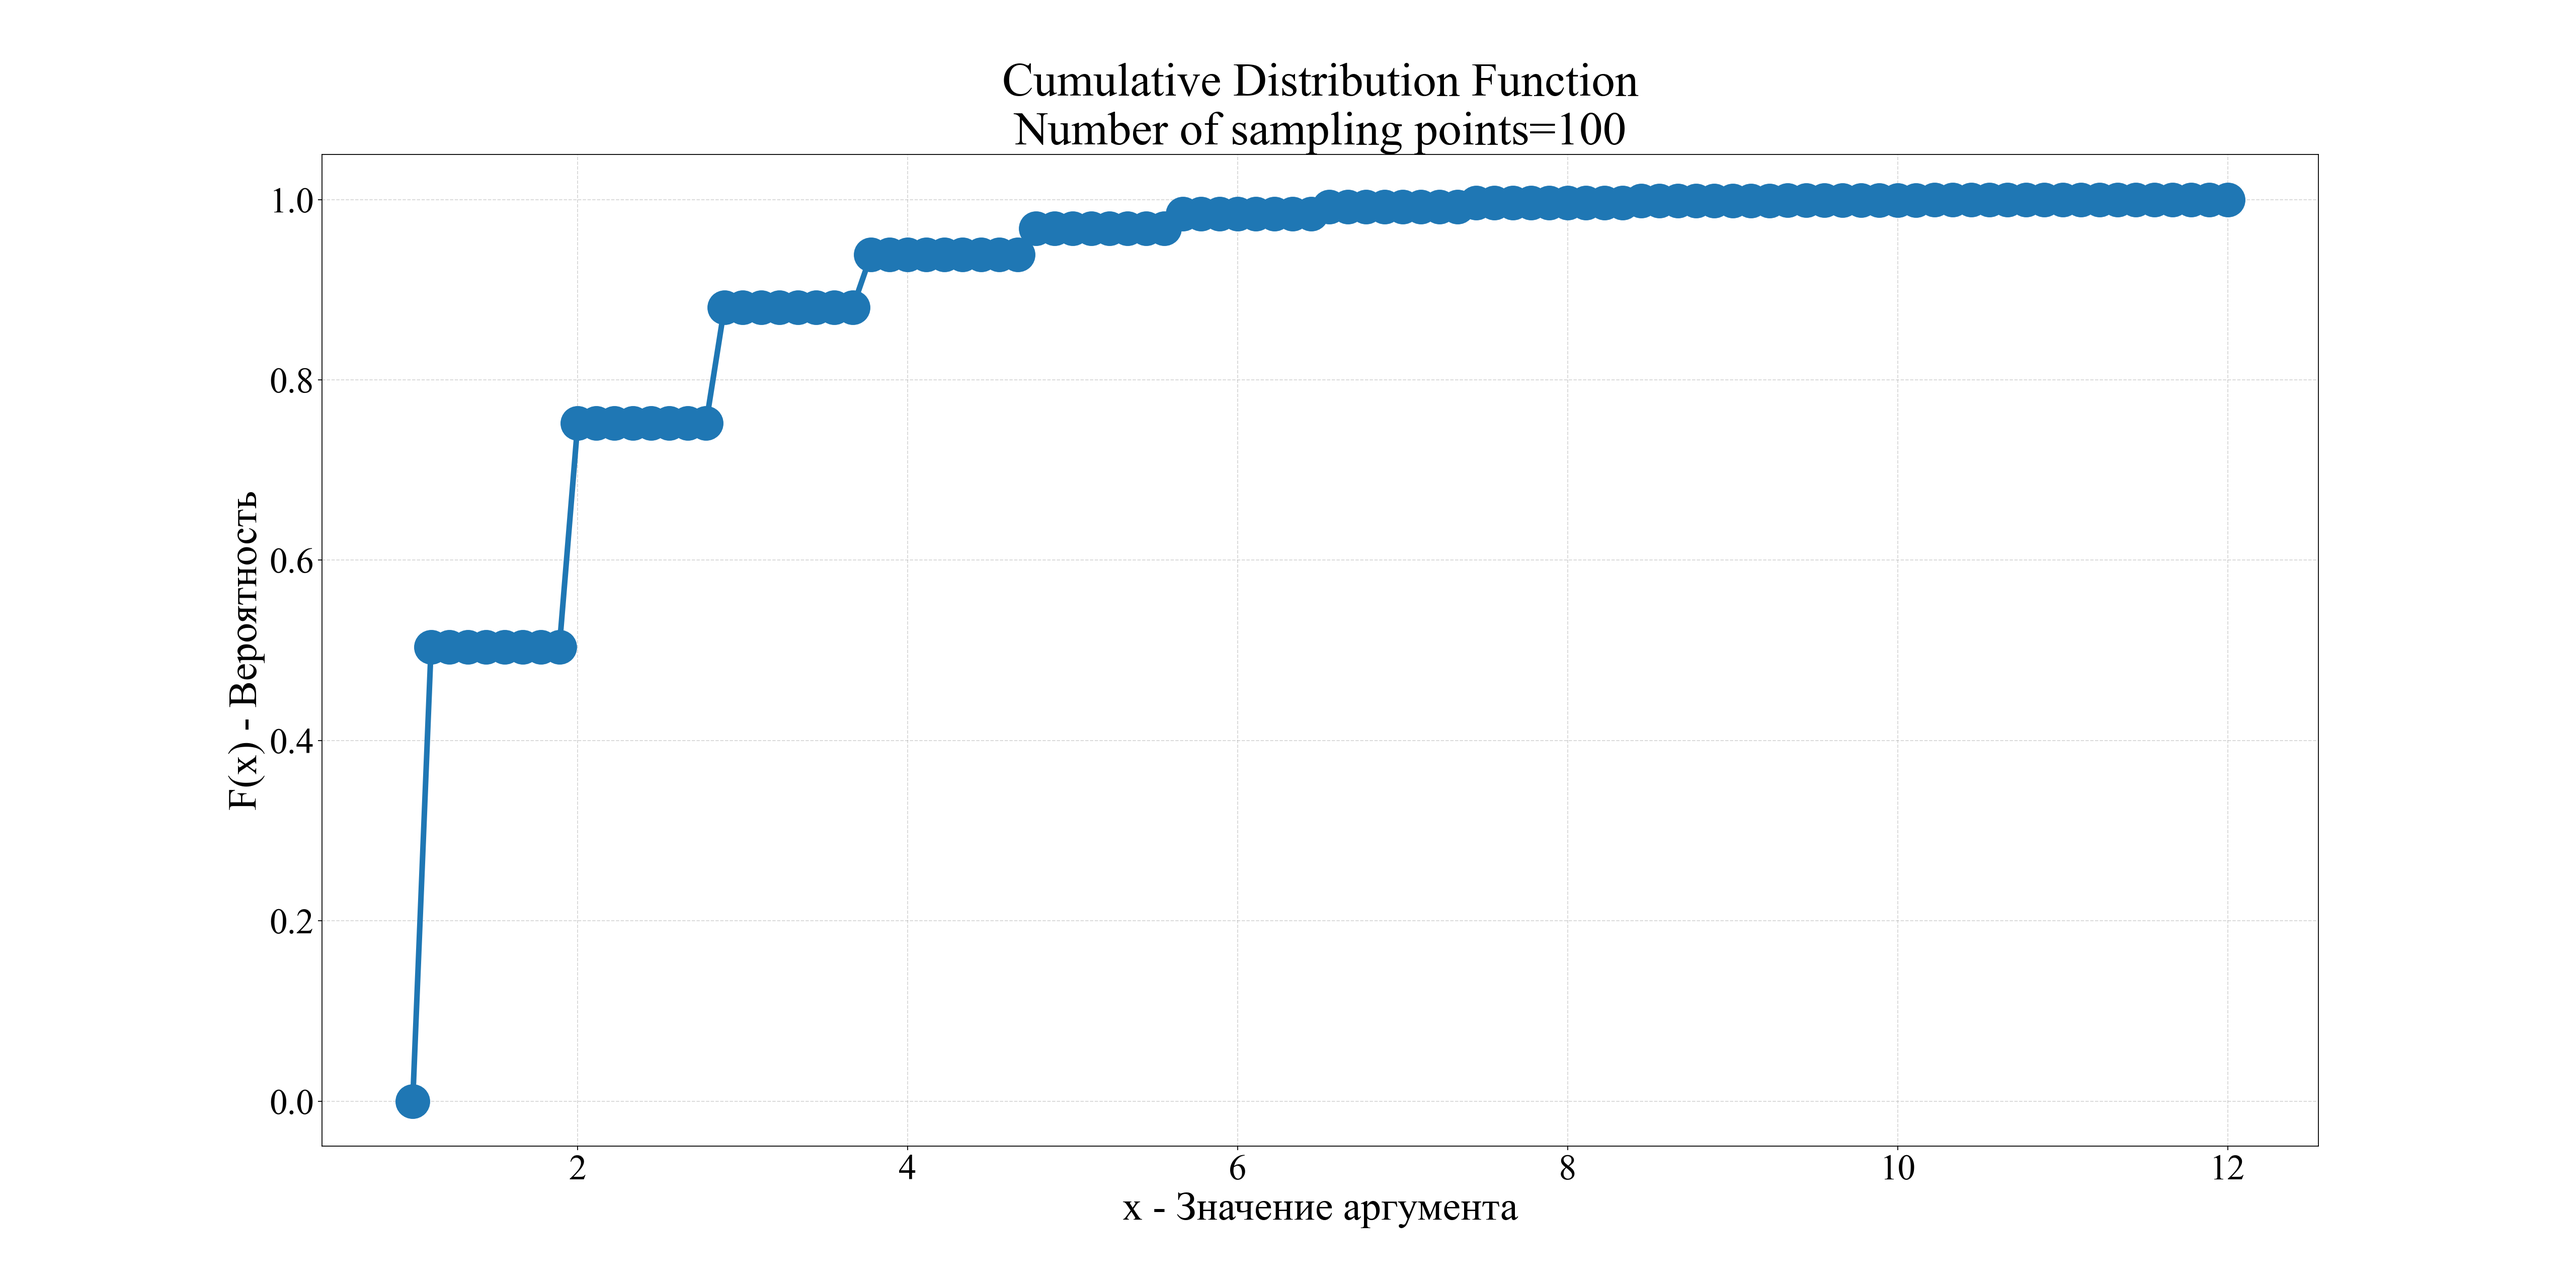
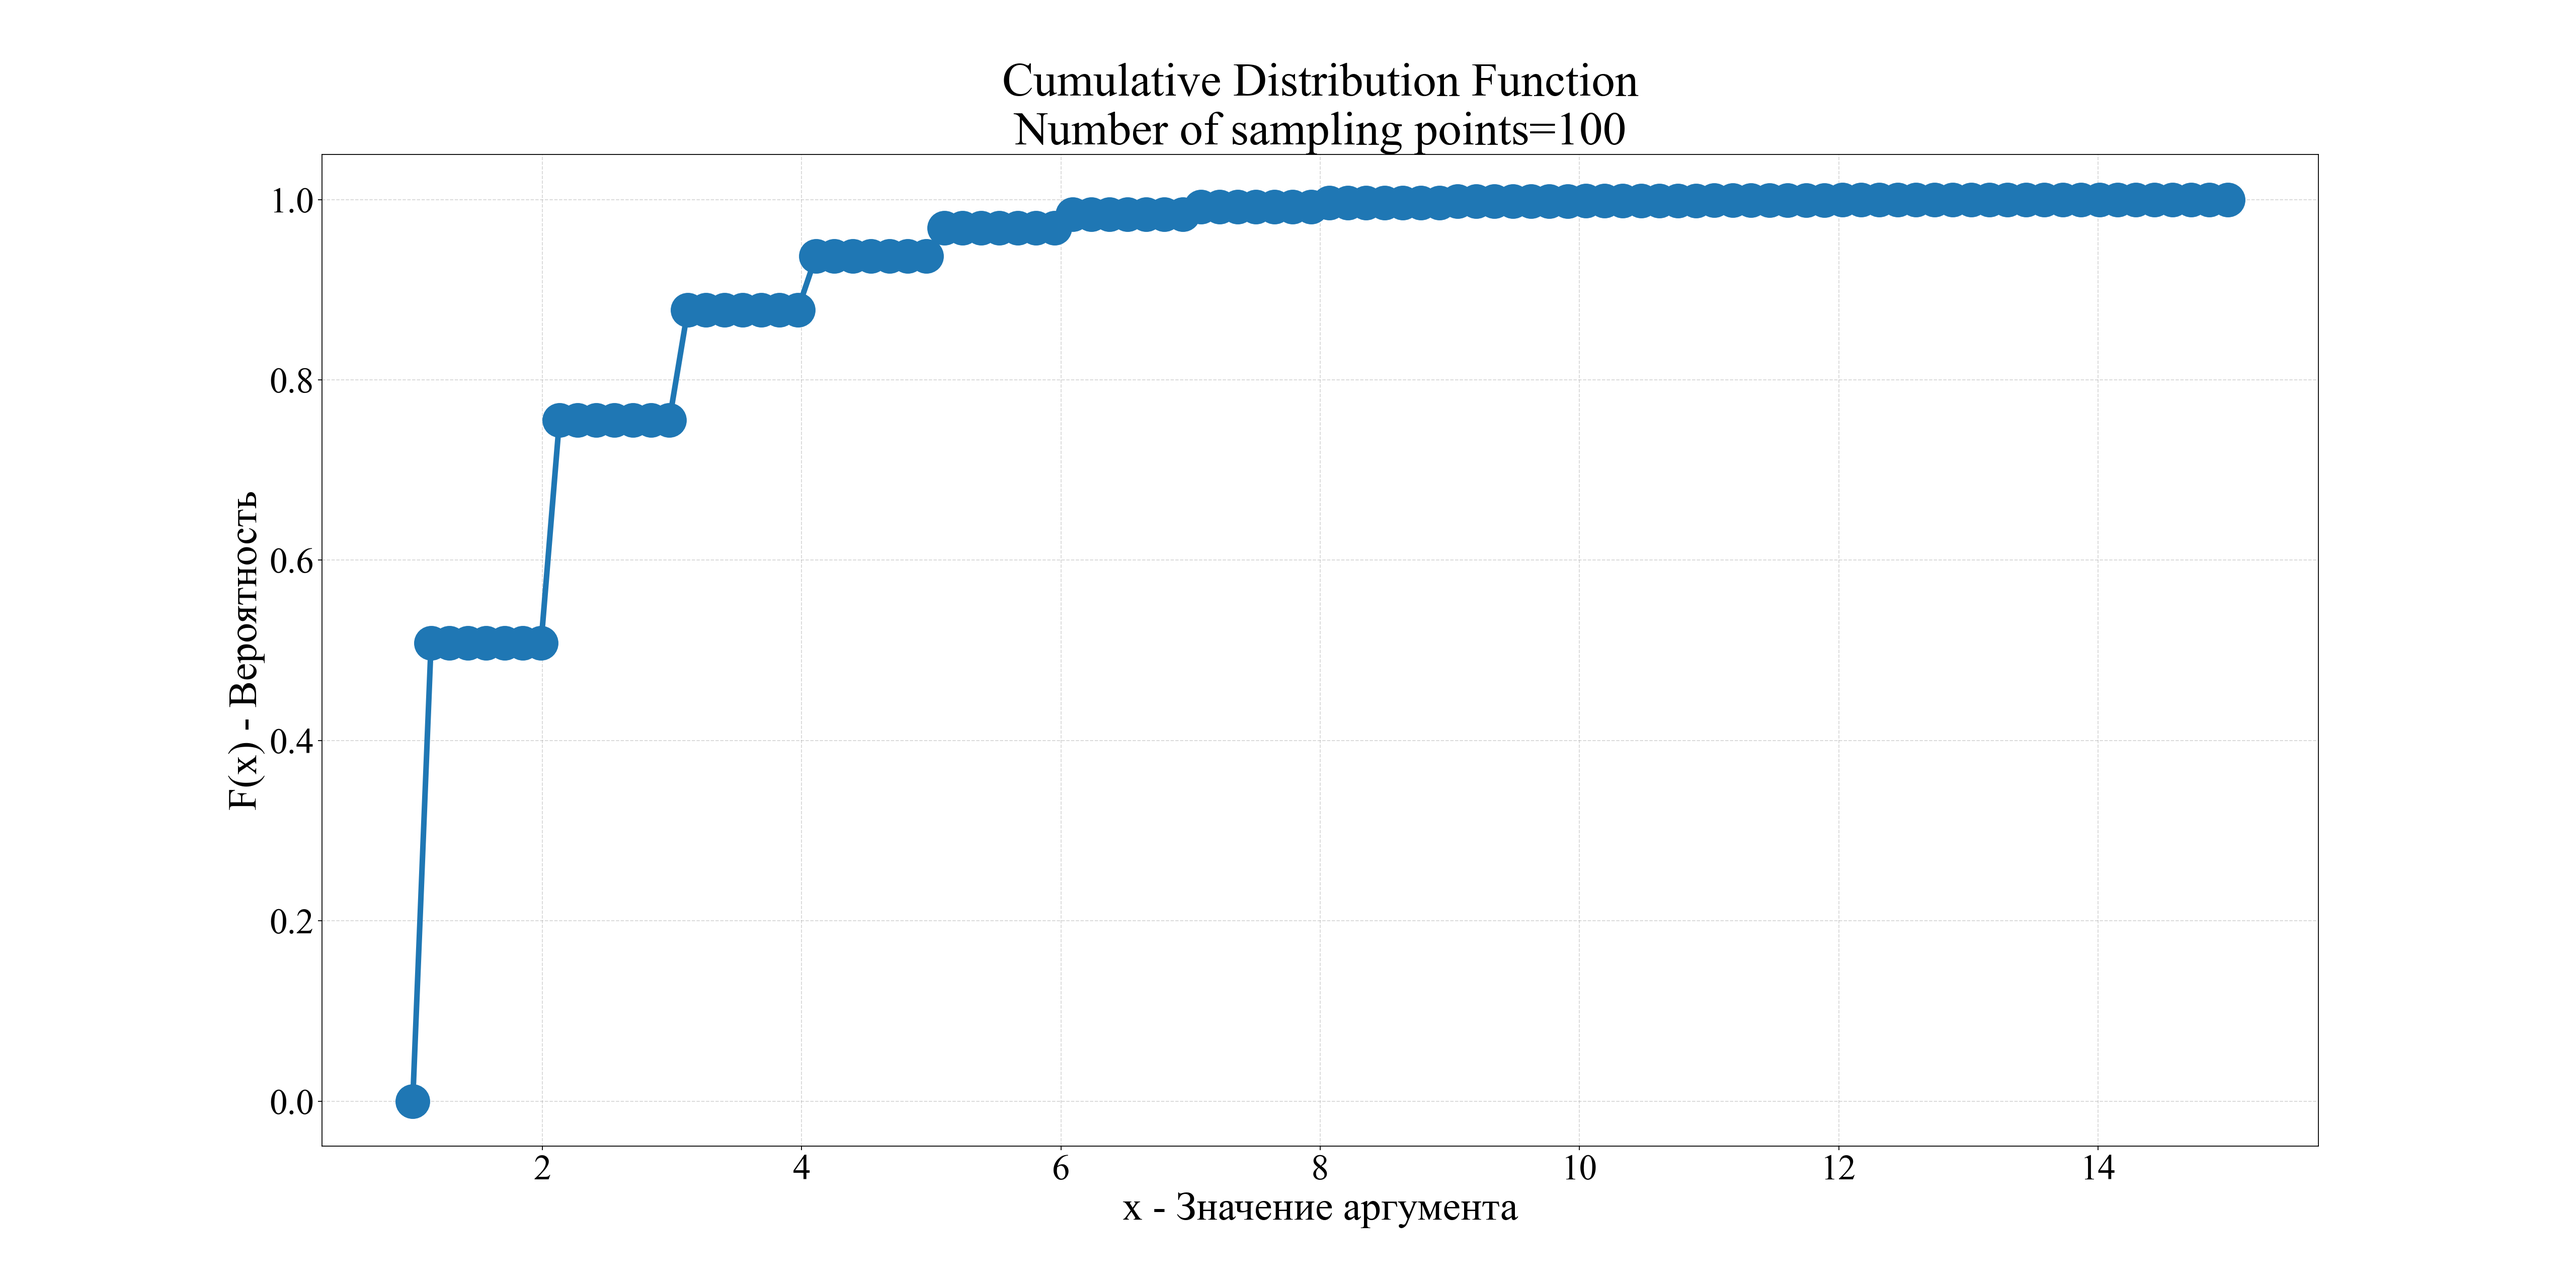
修复 几何分布算法 2

Changed region(s): [[0.3125, 0.125, 0.5625, 0.25], [0.1875, 0.2188, 0.2812, 0.3438], [0.1875, 0.4375, 0.2188, 0.5312]]

diff --git a/002 - lab2/main.py b/002 - lab2/main.py
@@ -172,23 +172,23 @@ if __name__ == '__main__':
     # binomial_distribution()
 
     # 【2.3.1】ГЕОМЕТРИЧЕСКОЕ РАСПРЕДЕЛЕНИЕ (Алгоритм 1)
-    # geometric_distribution(arr_geometric=irandom.irngeo_1(p=0.5, size=10000),
-    #                        img_save_fold='./result/【2.3.1】Geometric distribution/')
+    geometric_distribution(arr_geometric=irandom.irngeo_1(p=0.5, size=10000),
+                           img_save_fold='./result/【2.3.1】Geometric distribution/')
 
     # 【2.3.2】ГЕОМЕТРИЧЕСКОЕ РАСПРЕДЕЛЕНИЕ (Алгоритм 2)
-    # geometric_distribution(arr_geometric=irandom.irngeo_2(p=0.5, size=10000),
-    #                        img_save_fold='./result/【2.3.2】Geometric distribution/')
+    geometric_distribution(arr_geometric=irandom.irngeo_2(p=0.5, size=10000),
+                           img_save_fold='./result/【2.3.2】Geometric distribution/')
 
     # 【2.3.3】ГЕОМЕТРИЧЕСКОЕ РАСПРЕДЕЛЕНИЕ (Алгоритм 3)
-    # geometric_distribution(arr_geometric=irandom.irngeo_3(p=0.5, size=10000),
-    #                        img_save_fold='./result/【2.3.3】Geometric distribution/')
+    geometric_distribution(arr_geometric=irandom.irngeo_3(p=0.5, size=10000),
+                           img_save_fold='./result/【2.3.3】Geometric distribution/')
 
     # 【2.4.1】РАСПРЕДЕЛЕНИЕ ПУАССОНА (Алгоритм 1)
     # poisson_distribution(arr_poisson=irandom.irnpoi(mu=10, size=10000),
     #                      img_save_fold='./result/【2.4.1】Poisson distribution/')
 
     # 【2.4.2】РАСПРЕДЕЛЕНИЕ ПУАССОНА (Алгоритм 2)
-    poisson_distribution(arr_poisson=irandom.irnpsn(mu=10, size=10000),
-                         img_save_fold='./result/【2.4.2】Poisson distribution/')
+    # poisson_distribution(arr_poisson=irandom.irnpsn(mu=10, size=10000),
+    #                      img_save_fold='./result/【2.4.2】Poisson distribution/')
 
     pass

diff --git a/002 - lab2/irandom.py b/002 - lab2/irandom.py
@@ -58,7 +58,7 @@ def irngeo_2(p: float, size: int) -> np.ndarray:
             i_uniform = np.random.uniform(low=0, high=1)
             j += 1
 
-        arr_irngeo.append(j)
+        arr_irngeo.append(j + 1)
 
     return np.array(arr_irngeo)
 
